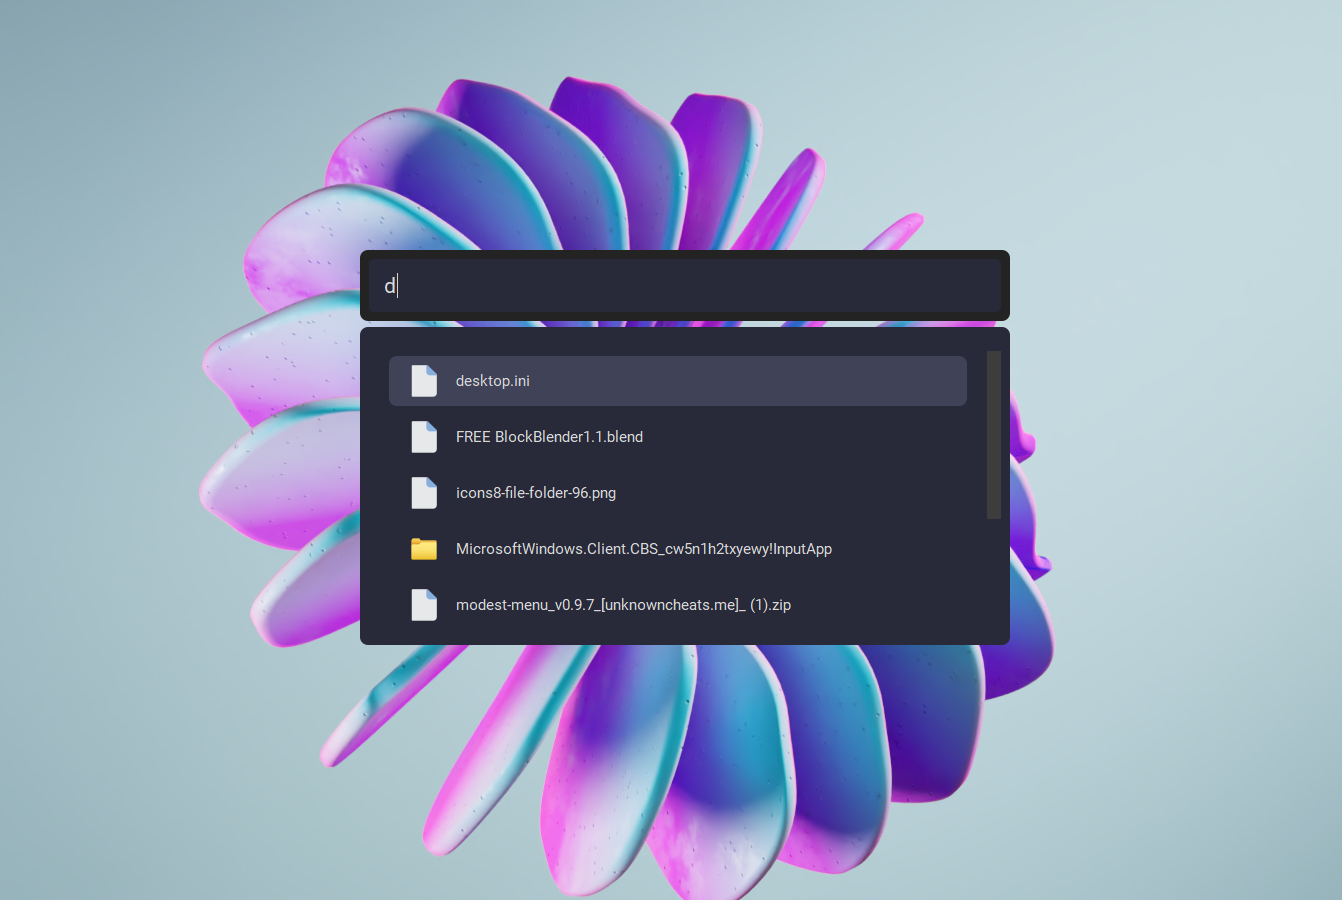
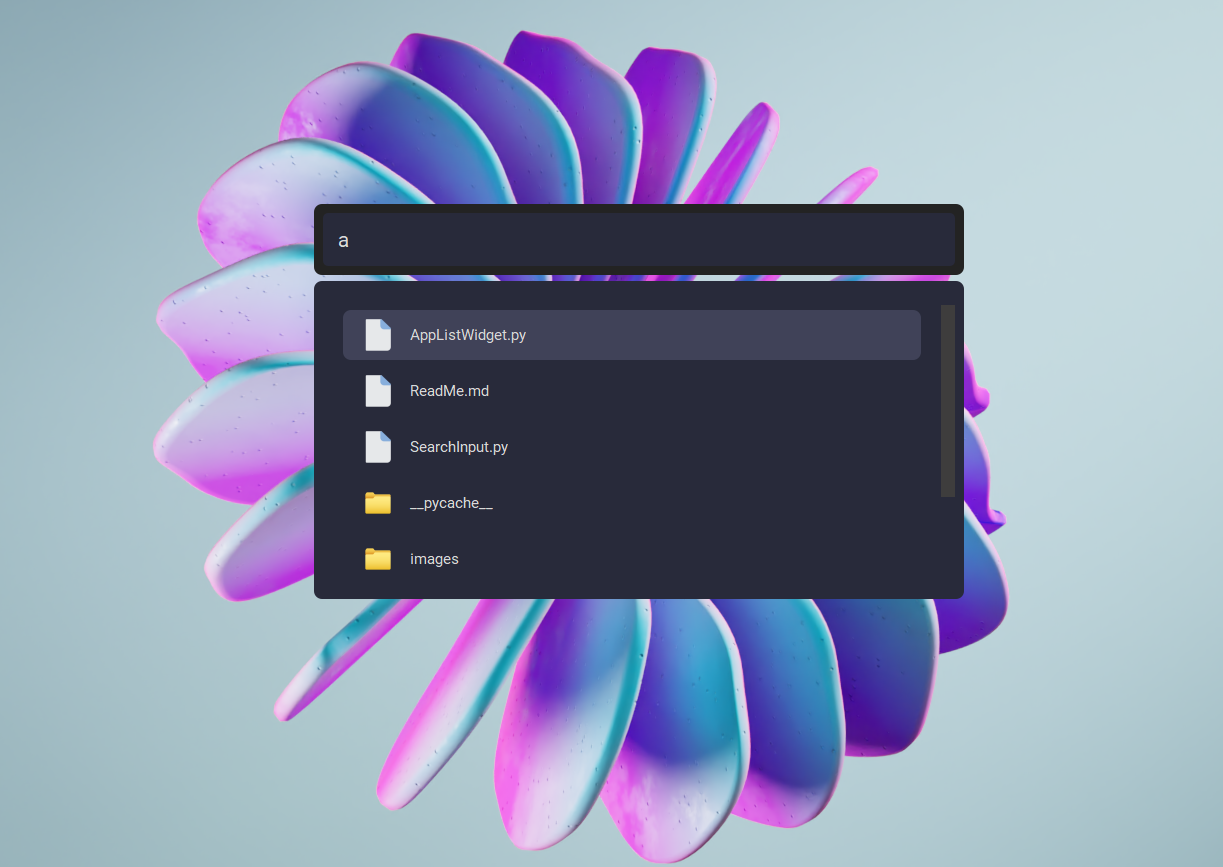
Update readme

Changed region(s): [[0.1243, 0.0311, 0.8389, 1.0], [0.4039, 0.9343, 0.4661, 0.9965]]

diff --git a/main.py b/main.py
@@ -96,8 +96,7 @@ class MainWindow(QMainWindow):
 
     def populate_list(self):
         """demo / filling out list with all the files and folders from the computers Download Folder"""
-        download_folder = os.path.join(os.path.expanduser('~'), 'Downloads')
-        list_dir = os.listdir(download_folder)
+        list_dir = os.listdir("./")
         list_dir.sort()
         if self.input_box.text():
             res = [i for i in list_dir if self.input_box.text().lower() in i.lower()]
@@ -105,7 +104,7 @@ class MainWindow(QMainWindow):
             res = list_dir
         self.list_view.clear()
         for idx, i in enumerate(res):
-            is_file = os.path.isfile(download_folder + "/" + i)
+            is_file = os.path.isfile("./" + i)
             list_item = ListItem(self.list_view, i, QPixmap("./file-icon.png" if is_file else "./folder-icon.png"), idx)
             self.list_view.add_list_item(list_item, self.list_item_clicked)
             if idx == 0:

diff --git a/ReadMe.md b/ReadMe.md
@@ -5,9 +5,9 @@ If you have seen macos `spotlight` or `microsoft powertools run` this is just a 
 
 The Frontend on PySide6 and has the necessary functionality implimented to complete app.
 
-It has a demo function `populate_list` that basically gathers all files and folders from Downloads folder and shows it
+It has a demo function `populate_list` that basically gathers all files and folders from current folder and shows it
 
-![alt text](images/ss-preview-file-finder.png)
+![ss preivew](/images/ss-preview-file-finder.png)
 
 ## Features
 - Widgets:
@@ -24,3 +24,4 @@ It has a demo function `populate_list` that basically gathers all files and fold
 
 
 #### This is basically a template to get you started on making finder applications or whatever you want to, i posted this because after making the UI i didn't knew what to make `(*>﹏<*)′
+
